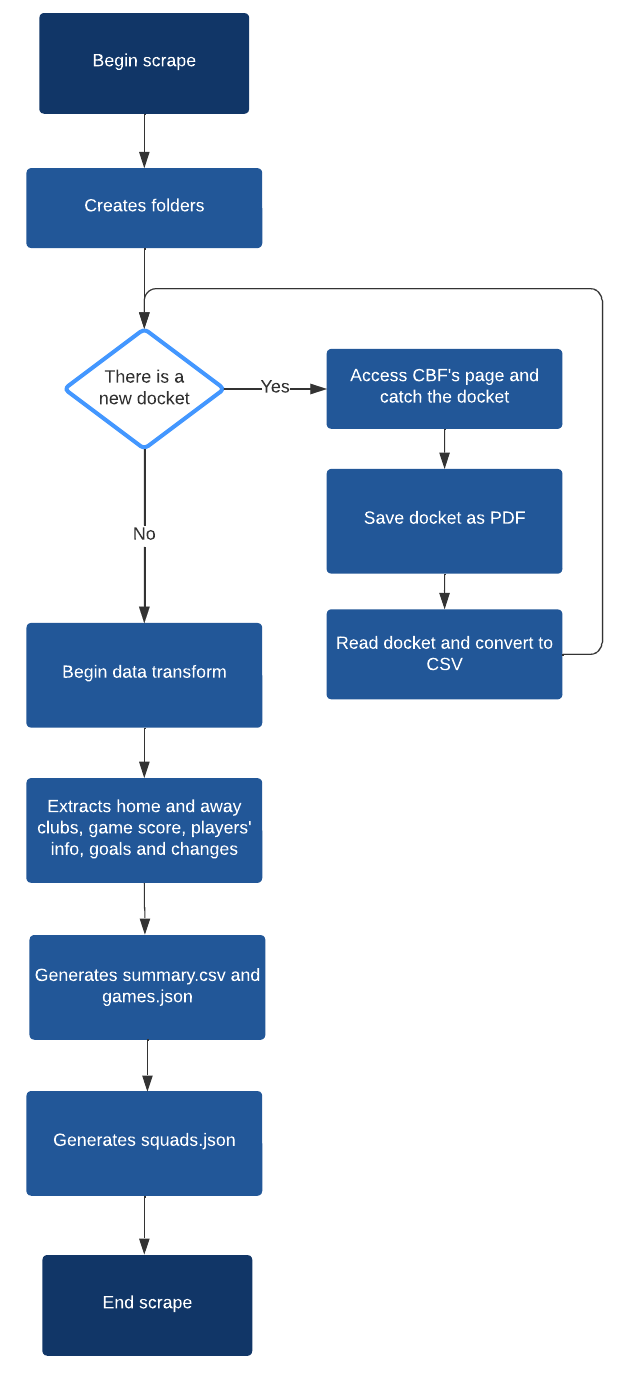
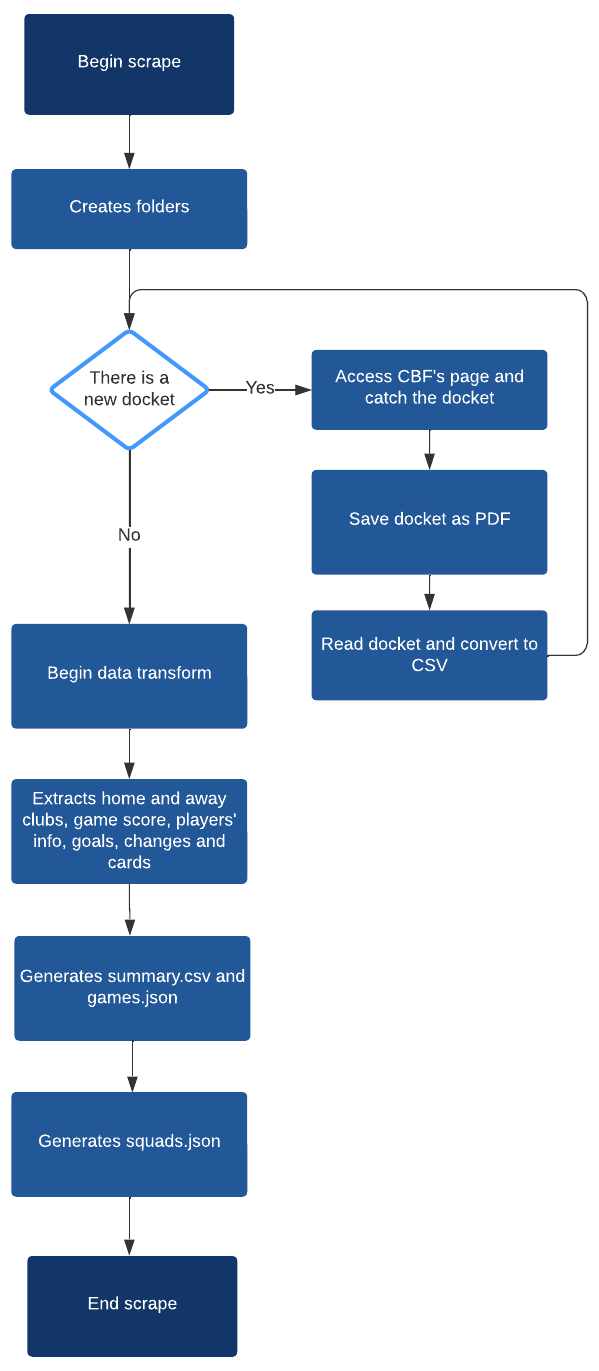
update READMEs

diff --git a/results/README.md b/results/README.md
@@ -46,6 +46,15 @@ In other hand, the `json` files have a processed data. First, `games.json` have 
     "31:00 2TRemo/PA 17 - Jose Clebson de Lima 10 - Petter Barros de Almeida",
     "32:00 2TFlamengo/RJ 16 - Cleber Santana Loureiro 10 - Rodolfo de Almeida Guimar ...",
     ...
+  ],
+  "Yellow cards": [
+    "28:00 2T 3Renato dos Santos Flamengo/RJ",
+    "32:00 2T 10Rodolfo de Almeida Guimaraes Flamengo/RJ",
+    "07:00 2T 4José Antonio Horacio de Lima Remo/PA",
+    "18:00 2T 11Valdenir Barretos Remo/PA"
+  ],
+  "Red cards": [
+
   ]
 }
 ```
@@ -53,17 +62,47 @@ In other hand, the `json` files have a processed data. First, `games.json` have 
 Finally, the `squads.json` file breaks this data in subgames. Every time that occur a change, it's defined a new subgame. So, the first 22 players on field begin the first subgame from a game. When the first change of players occur, that subgame ends and the second begins. Independently the parcial result of the game, the second subgame begins with a 0 x 0 score. In this sense, every game was broken in some subgames, having the eleven player's id for each club, the time that subgame lasted and the score of thta subgame. As example
 ```json
 {"0": {
-        "Mandante": ["132800", "184862", "156279", "329561", "173645", "166749", "173921", "175741", "340020", "182842", "171968"],
-        "Visitante": ["141698", "137644", "164070", "166649", "189046", "155855", "335611", "159607", "186467", "308733", "302196"],
-        "Tempo": 29,
-        "Placar": [0, 0]
-    },
+  "Home": {
+    "Squad": ["132800", "184862", "156279", "329561", "173645", "166749", "173921", "175741", "340020", "182842", "171968"],
+    "Cards": [
+
+    ],
+    "Goals": [
+
+    ]
+  },
+  "Away": {
+    "Squad": ["141698", "137644", "164070", "166649", "189046", "155855", "335611", "159607", "186467", "308733", "302196"],
+    "Cards": [
+
+    ],
+    "Goals": [
+
+    ]
+  },
+  "Time": 29
+},
 "1": {
-        "Mandante": ["132800", "184862", "156279", "329561", "173645", "166749", "173921", "175741", "340020", "182842", "171968"],
-        "Visitante": ["141698", "164070", "166649", "189046", "155855", "335611", "159607", "186467", "308733", "302196", "133769"],
-        "Tempo": 28,
-        "Placar": [0, 1]
-    },
+  "Home": {
+    "Squad": ["132800", "184862", "156279", "329561", "173645", "166749", "173921", "175741", "340020", "182842", "171968"],
+    "Cards": [
+      [23, "329561"]
+    ],
+    "Goals": [
+
+    ]
+  },
+  "Away": {
+    "Squad": ["141698", "164070", "166649", "189046", "155855", "335611", "159607", "186467", "308733", "302196", "133769"],
+    "Cards": [
+
+    ],
+    "Goals": [
+      [25, "302196"]
+    ]
+  },
+  "Time": 28
+},
 ...
 }
 ```
